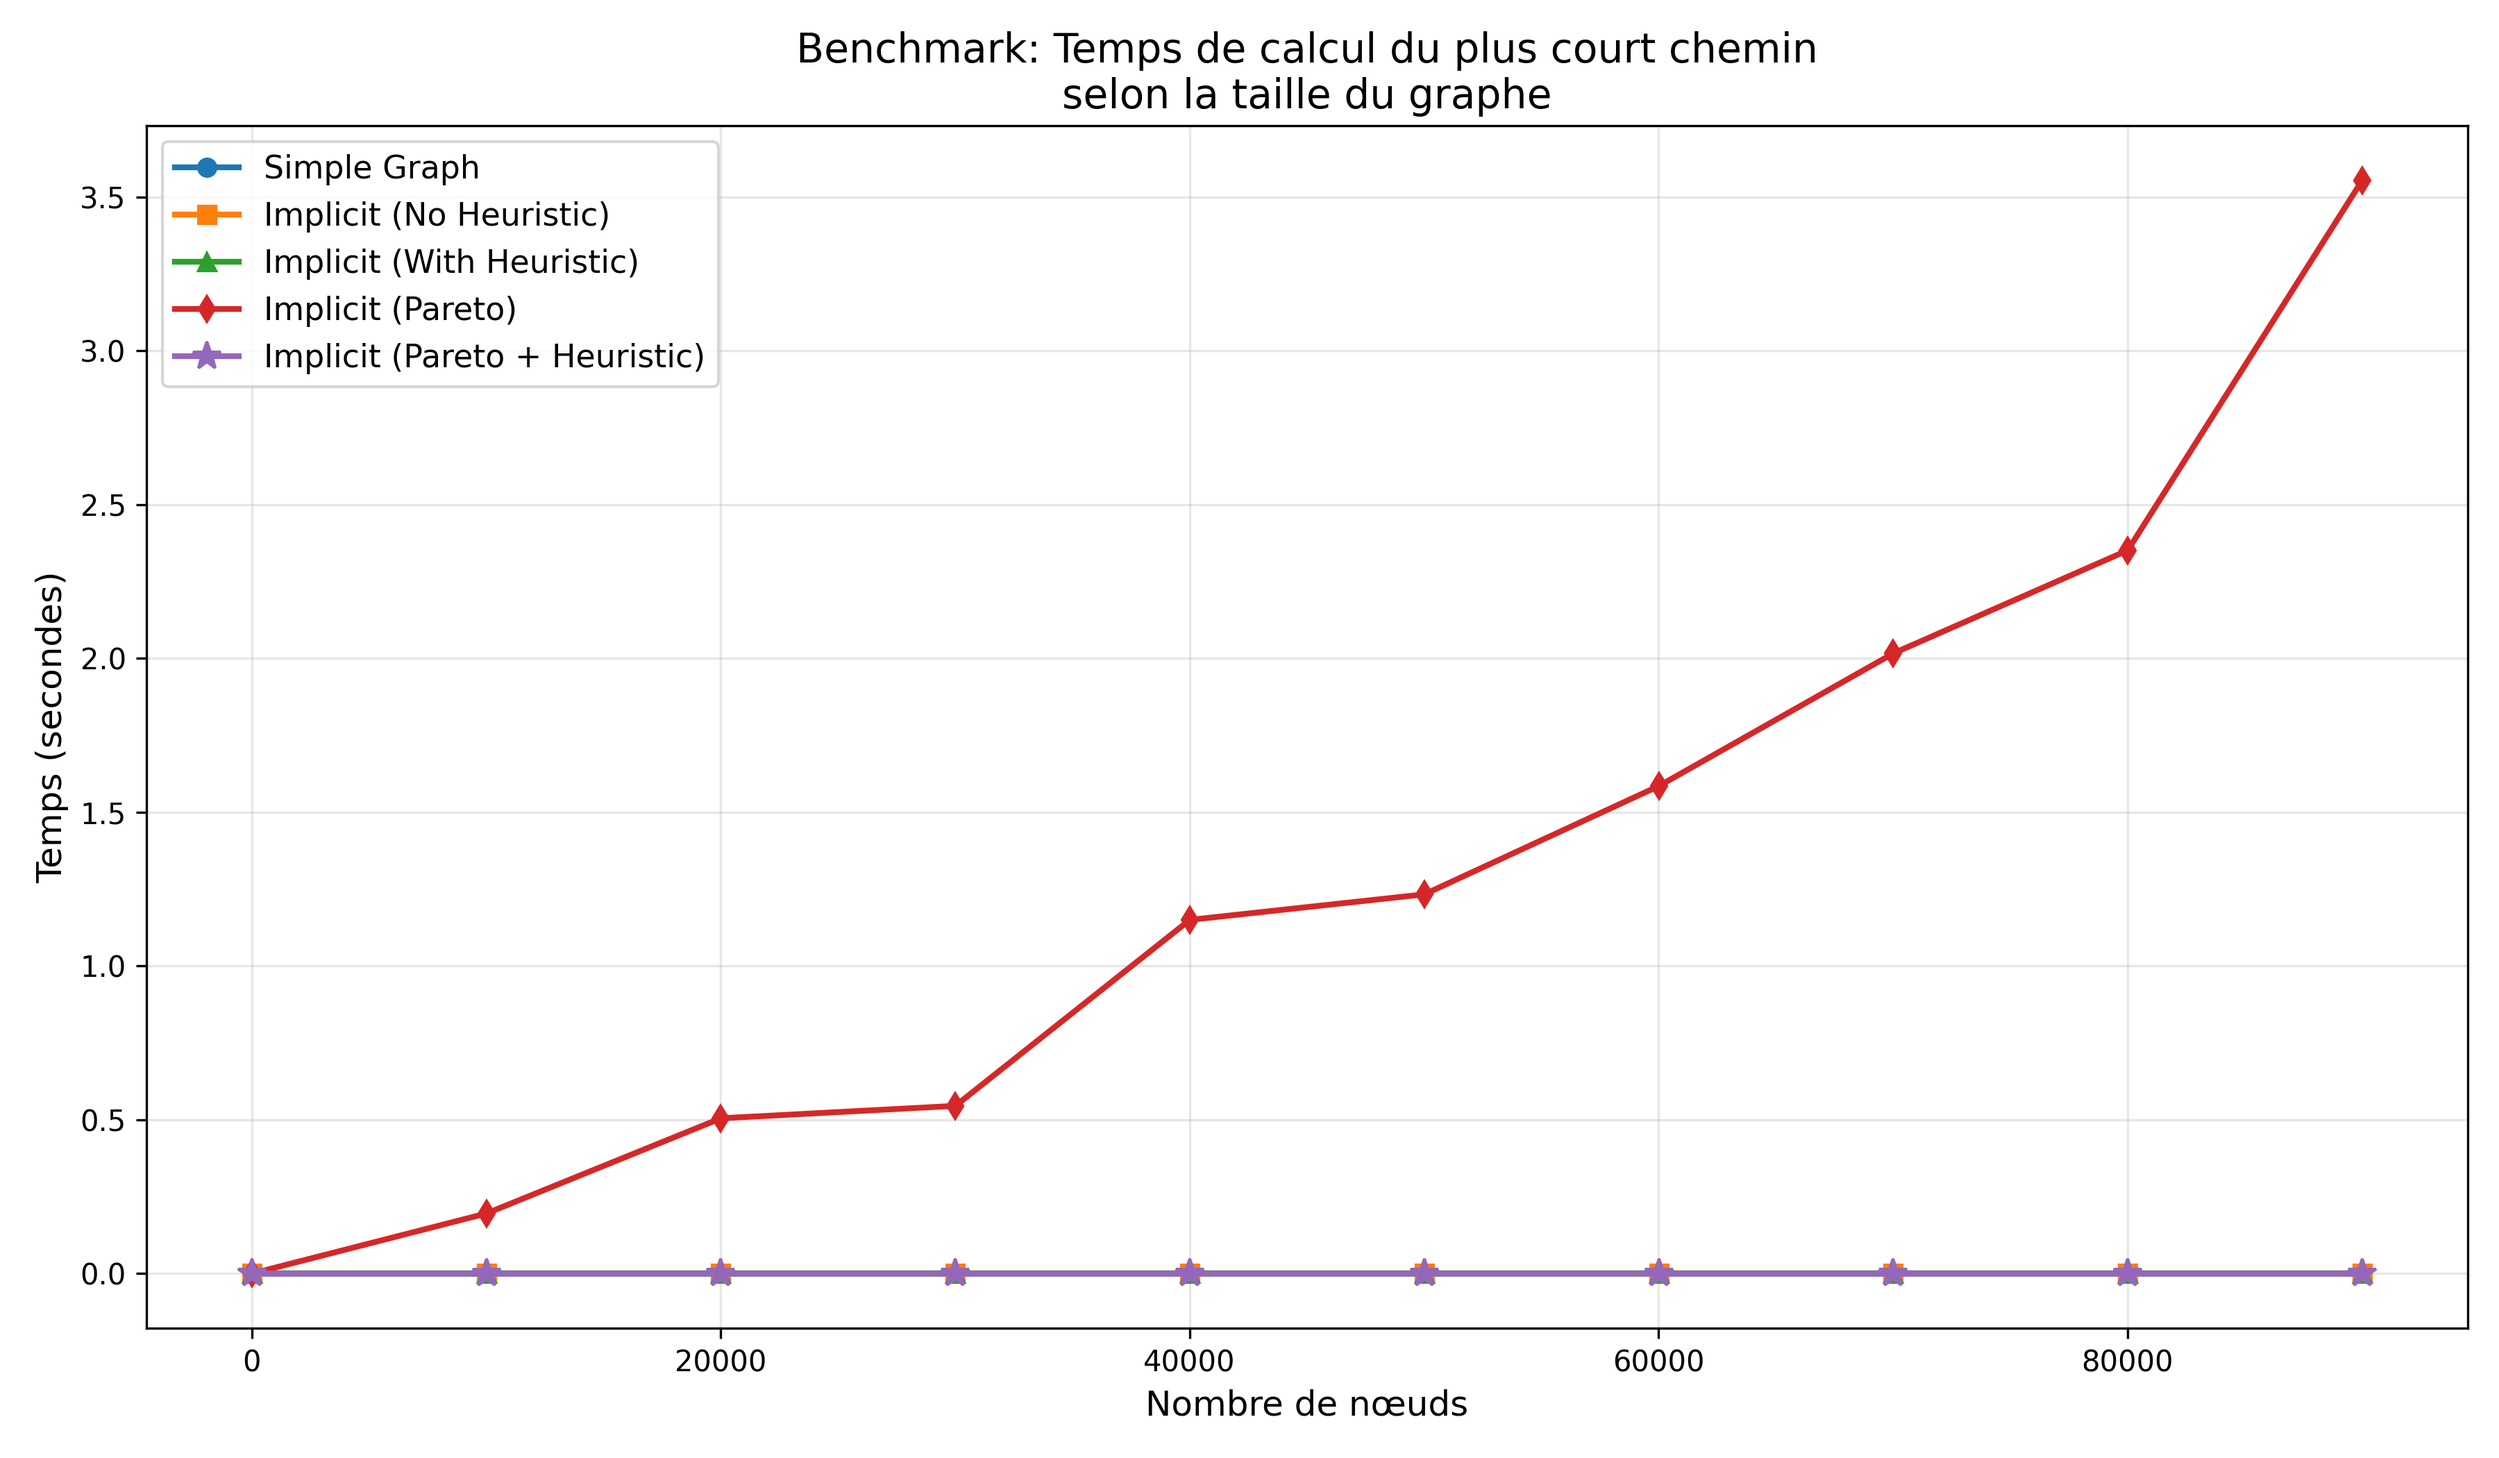
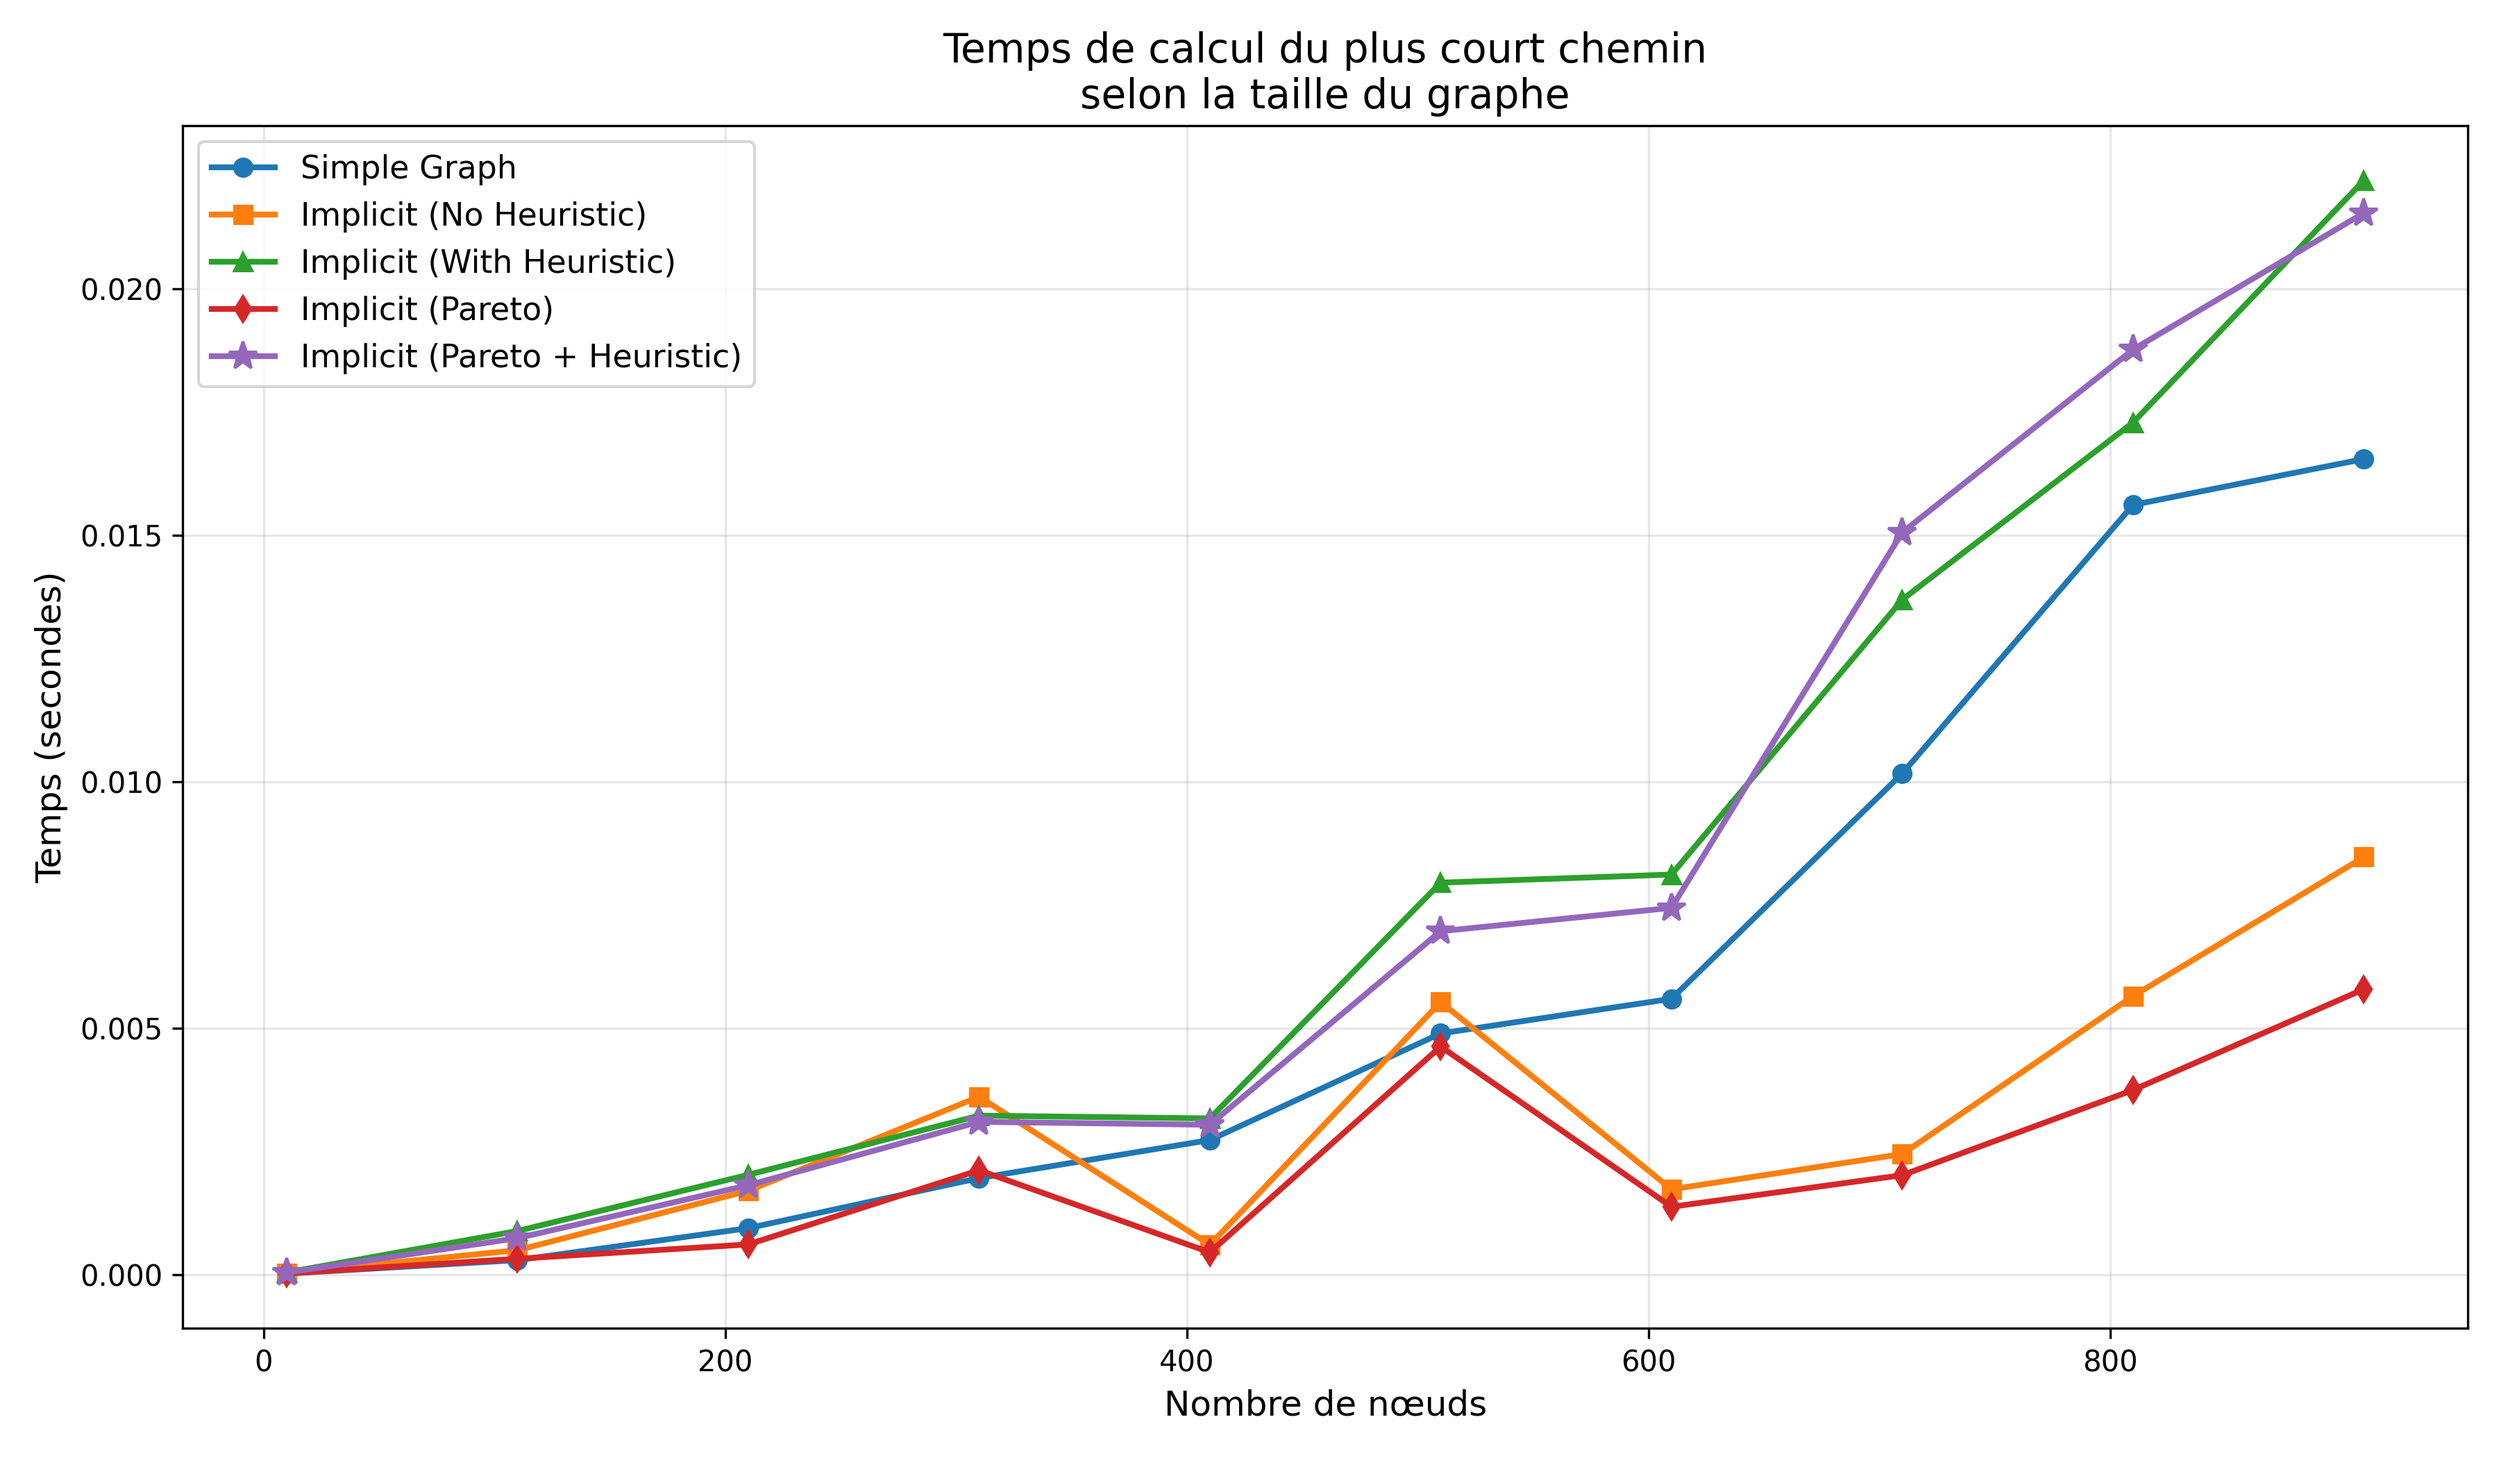
oubli de commit

diff --git a/code/extension.py b/code/extension.py
@@ -21,7 +21,6 @@ class Mission:
         for i in range(0, len(path)-1):
             p1 = path[i][0]
             p2 = path[i+1][0]
-            print(p1, p2)
             n0, length, fatigue = list(filter(lambda x: x[0] == p2, self._roads[p1]))[0]
             f += fatigue
             d += length * f
@@ -33,23 +32,20 @@ class Mission:
         Liste_entiere = [a  for u in self.missions for a in u]
         list_sommets = []
         for i in range(len(Liste_entiere)-1):
-            new_roads = self._roads.copy()
-            current_f = self.temps_chemin(list_sommets)[1]
-            for a in new_roads:
-                new_roads[a] = [(v, d, f+current_f) for (v, d, f) in new_roads[a]]
-    
-            network = Network(roads=new_roads, start=Liste_entiere[i], end=Liste_entiere[i+1])
-            g = network.build_implicit_graph()
+
+            network = Network(roads=self._roads, start=Liste_entiere[i], end=Liste_entiere[i+1])
+            g = network.build_extended_graph()
             if list_sommets == []:
                 list_sommets += g.shortest_path(Liste_entiere[i], Liste_entiere[i+1])[1][1:-1]
             else: list_sommets += g.shortest_path(Liste_entiere[i], Liste_entiere[i+1])[1][2:-1]
-        
         return self.temps_chemin(list_sommets), list_sommets
     
     def temps_affile_2(self, precalcul_heuristique=False):
         # construction du graphe
         def fonction_voisin(state):
+            L = [a  for u in self.missions for a in u]
             if state == self.start:
+                print("start", [((self.start, 1, 0), 0)])
                 return [((self.start, 1, 0), 0)] # on rajoute un 0 pour le nb de missions faites
                     # On commence au point de départ avec une fatigue de 1, coût 0. 
 
@@ -62,14 +58,13 @@ class Mission:
                     nouvelle_fatigue = fatigue_actuelle + fatigue_route
                     temps_parcours = longueur * fatigue_actuelle
                     
-                    if u == self.missions[nb_missions]:
+                    if nb_missions < len(L) and u == L[nb_missions]:
                         nb_missions += 1
                     voisins.append(((v, nouvelle_fatigue, nb_missions), temps_parcours))
                 
                 # Si on est au sommet d'arrivée, on ajoute une transition vers le noeud final
-                if u == self.end:
+                if u == self.end and nb_missions==len(L):
                     voisins.append((self.end, 0))
-                    
                 return voisins
 
                 # cas du noeud final: il n'a pas de voisins sortants
@@ -80,29 +75,34 @@ class Mission:
             h_dico = g_simple_inv.shortest_path(self.end, self.start, return_DISTANCE=True)
 
         g = GraphImplicit(fonction_voisin, heuristique_dico=h_dico)
-        return g.shortest_path2(self.start, self.end, pareto=True, heuristique=True)
+        return g.shortest_path(self.start, self.end)
 
     def temps_choix(self): 
         # trouver le temps de choix pour un chemin choisi 
         missions_faites = [(self.start, self.start)]
         liste_sommets = []
-
         while len(missions_faites) != len(self.missions):
             gr = Network(roads=self._roads, start=missions_faites[-1][1], 
-                          end="").build_implicit_graph()
-            distance_pt = gr.shortest_path(missions_faites[-1][1], ",kn ", True)
+                          end="v0")
+            distance_pt = gr.build_extended_graph().shortest_path(missions_faites[-1][1], "hhy", True)
+            print(missions_faites[-1][1])
             # Transformer distance_pt pour avoir point = distance
             distance_dict = {k[0]: v for k, v in distance_pt.items()}
+            print(distance_dict)
             # Sélectionner la mission non faite avec la distance minimale
             remaining_missions = [m for m in self.missions if m not in missions_faites]
             mission = min(remaining_missions, key=lambda x: distance_dict[x[0]])
+            print("je fais la mission", mission)
             missions_faites.append(mission)
             liste_sommets += mission[0]+mission[1]
-        return self.temps_affile(missions_faites)
+        self.missions, save = missions_faites, self.missions
+        v = self.temps_affile()
+        self.missions = save
+        return v
 
 class Time_comparer:
     def __init__(self,  max_nodes=50, step=5, repetitions=3, loi_log=False):
-        sizes, results = self.compare_different_size(max_nodes, step, repetitions)
+        sizes, results = self.compare_different_size(max_nodes, step, repetitions, loi_log)
         self.plot_results(sizes, results)
 
     def compare_different_size(self, max_nodes=50, step=5, repetitions=3, loi_log=False):
@@ -141,19 +141,19 @@ class Time_comparer:
                 # Test 1: Simple graph
                 
                 t = time()
-                #g.build_simple_graph().shortest_path(g.start, g.end)
+                g.build_simple_graph().shortest_path(g.start, g.end)
                 times_simple.append(time() - t)
 
                 
                 # Test 2: Implicit graph without heuristic, no pareto
                 t = time()
-                #g.build_implicit_graph(précalcul_heuristique=False).shortest_path2(g.start, g.end, pareto=False)
+                g.build_implicit_graph(précalcul_heuristique=False).shortest_path2(g.start, g.end, pareto=False)
                 times_implicit_no_h.append(time() - t)
 
                 
                 # Test 3: Implicit graph with heuristic, no pareto
                 t = time()
-                #g.build_implicit_graph(précalcul_heuristique=True).shortest_path2(g.start, g.end, pareto=False, heuristique=True)
+                g.build_implicit_graph(précalcul_heuristique=True).shortest_path2(g.start, g.end, pareto=False, heuristique=True)
                 times_implicit_h.append(time() - t)
 
                 
@@ -164,7 +164,7 @@ class Time_comparer:
                 
                 # Test 5: Implicit graph with pareto and heuristic
                 t = time()
-                #g.build_implicit_graph(précalcul_heuristique=True).shortest_path2(g.start, g.end, pareto=True, heuristique=True)
+                g.build_implicit_graph(précalcul_heuristique=True).shortest_path2(g.start, g.end, pareto=True, heuristique=True)
                 times_pareto_h.append(time() - t)
 
             

diff --git a/code/main.py b/code/main.py
@@ -6,8 +6,7 @@ import heapq
 
 
 # Load the network
-network_file = "examples/medium-smallfatigue.txt"
-network = Network.from_file(network_file)
+
 
 
 def comparaison_duree():
@@ -16,7 +15,7 @@ def comparaison_duree():
     t = time()
     test = g.build_simple_graph().shortest_path(g.start, g.end)
     print("test simple: \n", "temps: ", time()-t, "\n", "resultat: ", test)
-    '''
+    
     t = time()
     test = g.build_extended_graph().shortest_path2(g.start, g.end)[0]
     print("test extended: \n", "temps: ", time()-t, "\n", "resultat: ", test)
@@ -24,7 +23,7 @@ def comparaison_duree():
     t = time()
     test = g.build_implicit_graph(précalcul_heuristique=False).shortest_path2(g.start, g.end)[0]
     print("test implicite sans rien: \n", "temps: ", time()-t, "\n", "resultat: ", test)
-    '''
+    
     t = time()
     test = g.build_implicit_graph(précalcul_heuristique=False).shortest_path2(g.start, g.end,pareto=True)[0]
     print("test implicite avec pareto : \n", "temps: ", time()-t, "\n", "resultat: ", test)
@@ -35,19 +34,7 @@ def comparaison_duree():
     print("test implicite avec pareto et heuristique: \n", "temps: ", time()-t, "\n", "resultat: ", test)
     
 def test_multitude_missions():
-    missions = [("v0", "v5"), ("v5", "v10"), ("v15", "v40"), ("v7", "v30")]
-    m = Mission(missions, network_file)
-    #print(m.temps_choix(), "\n--------")
-    print(m.temps_affile_2(True))
-
-
-
-#comparaison_duree()
-#test_multitude_missions()
-t = Time_comparer(max_nodes=1000000, step= 9 , repetitions = 50, loi_log=True)
-#t = Time_comparer(max_nodes=1000000, step= 100000, repetition = 100)
-
-mission_test = Mission( [("v0", "v1"), ("v4", "v0"), ("v3", "v4")], "",
+    mission_test = Mission( [("v0", "v2"), ("v4", "v0"), ("v3", "v4")], "",
         {
             "v0": [("v1", 100, 2), ("v2", 10, 15)],
             "v1": [("v2", 200, 4)],
@@ -58,6 +45,31 @@ mission_test = Mission( [("v0", "v1"), ("v4", "v0"), ("v3", "v4")], "",
 
         }
     )
-print(mission_test.temps_affile())
-print()
-print(mission_test.temps_choix())
+    #print("Le temps minimal possible est:", mission_test.temps_affile_2())
+    print("Et si on peut choisir l'odre des missions: ", mission_test.temps_choix())
+
+#####################################################################
+#################         CODE      #####################################
+#####################################################################
+network_file = "examples/medium-smallfatigue.txt"
+network = Network.from_file(network_file)
+
+# Pour tester le bon fonctionnement de l'algorithme
+r = network.build_implicit_graph().shortest_path2(network.start, network.end, pareto=True, heuristique=False)
+#print(r)
+
+# Pour tester le temps des différents algorithmes sur ce fichier
+#comparaison_duree()
+
+# Pour tester le temps des différents algorithmes sur un ensemble de graphes créés aléatoirement + sauvegarde photo
+#t = Time_comparer(max_nodes=1000, step= 100, repetitions = 10)
+#t = Time_comparer(max_nodes=10000, step= 3 , repetitions = 5, loi_log=True)
+
+
+# Pour tester l'algorithme avec missions:
+test_multitude_missions()
+
+
+
+
+

diff --git a/code/graph.py b/code/graph.py
@@ -72,7 +72,7 @@ class Graph:
                 break
             node_distance = DISTANCE[node]
             # Si on a atteint la destination, on peut s'arrêter
-            if node == fin:
+            if node == fin and not return_DISTANCE:
                 Vu[node] = node_distance
                 break
             #exploration des voisins   

diff --git a/tests/test_network_from_file_pytest.py b/tests/test_network_from_file_pytest.py
@@ -106,6 +106,4 @@ def test_missions():
 
         }
     )
-    print(mission_test.temps_affile())
-    print()
-    print(mission_test.temps_choix())
+    assert mission_test.temps_affile_2()[0] == 10155
